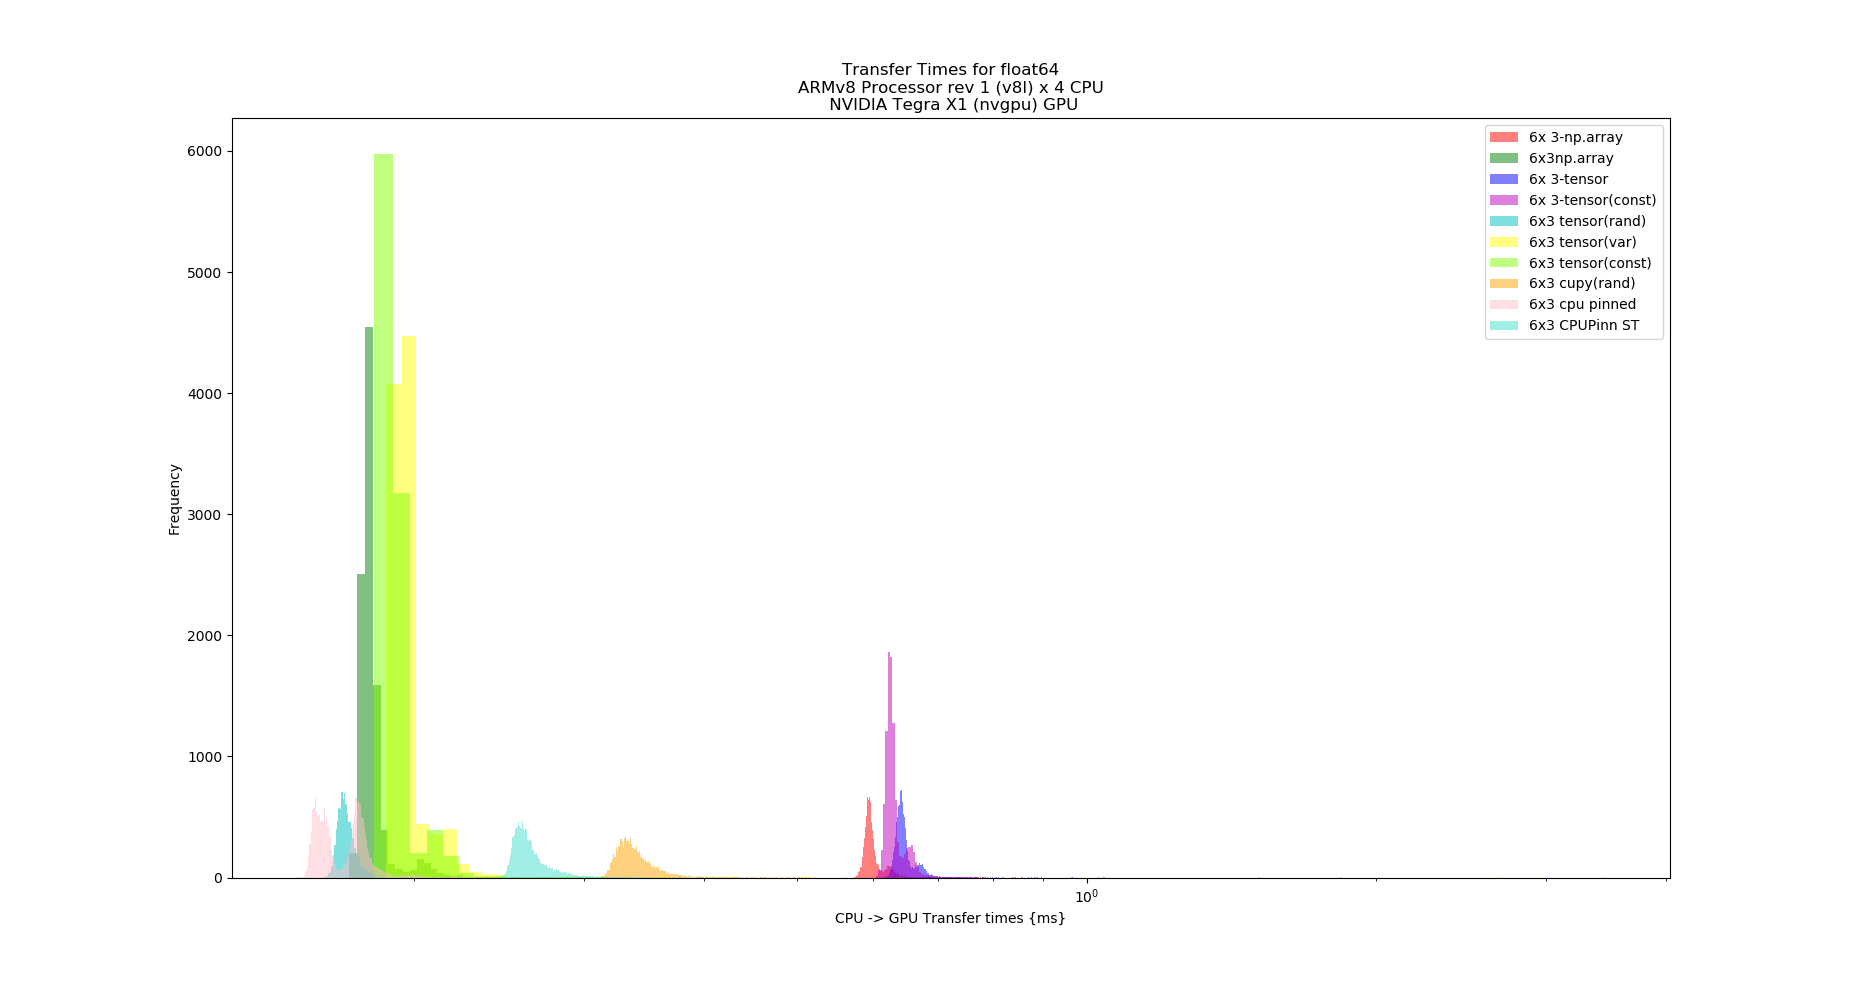
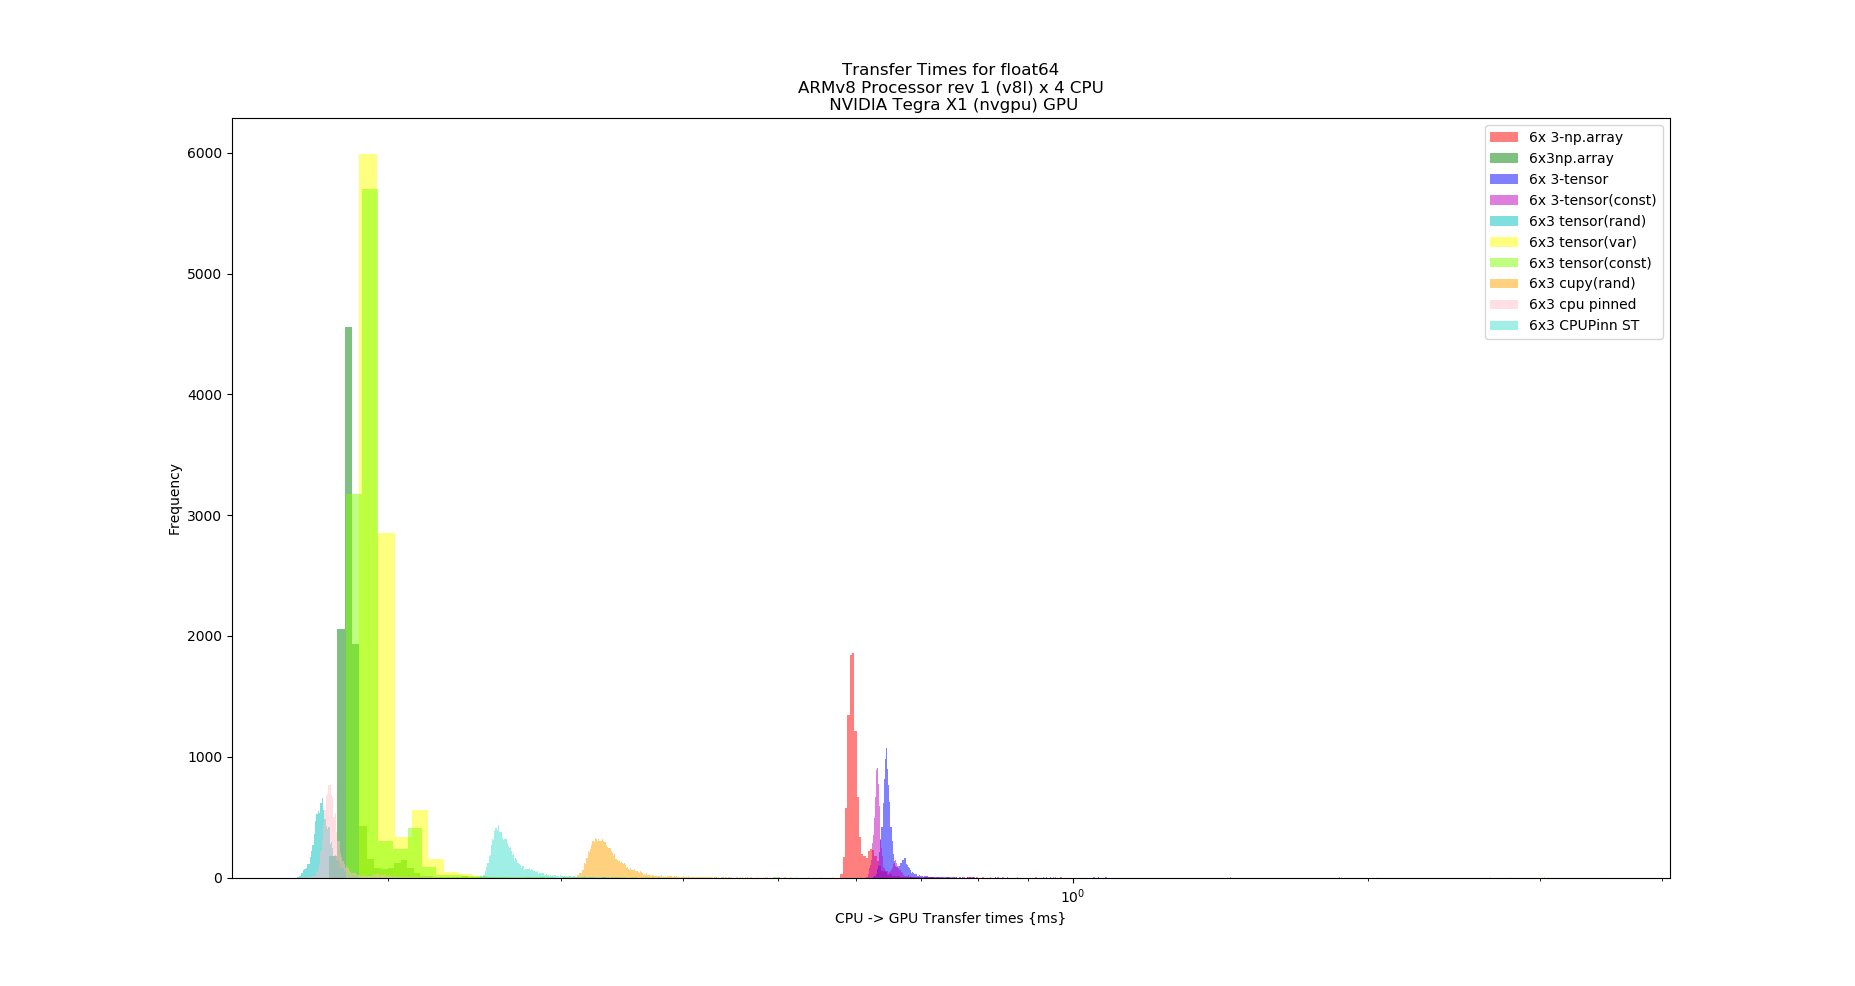
Correct doubled jetson measurements

Changed region(s): [[0.1536, 0.1521, 0.3687, 0.9128], [0.4302, 0.7302, 0.4916, 0.9128], [0.0922, 0.5172, 0.1229, 0.5477]]

diff --git a/README.md b/README.md
@@ -22,23 +22,23 @@ VGPUMat Times: points: 10000, mean: 0.030266073651798068, std: 0.001561949929056
 CGPUMat Times: points: 10000, mean: 0.02866346567682922, std: 0.0035306552234948144, max: 0.24022400379180908, min: 0.017855999991297722
 CUPYMat Times: points: 10000, mean: 0.06792415700107812, std: 0.8546480585564749, max: 85.52751922607422, min: 0.02502400055527687
 CPU Pinned Times: points: 20000, mean: 0.02516704963631928, std: 0.0032678948035097413, max: 0.20479999482631683, min: 0.021503999829292297
-ST CPU Pinned: points: 10000, mean: 0.04576768335322849, std: 0.0048162757139760546, max: 0.29900801181793213, min: 0.005824000108987093
+SpeedTorch CPU Pinned: points: 10000, mean: 0.04576768335322849, std: 0.0048162757139760546, max: 0.29900801181793213, min: 0.005824000108987093
 ```
 
 ## Jetson Nano Timing
 ![alt tag](https://github.com/juanmed/torchspeed/blob/master/media/jetson_nano_cpugpu_transfer.png)
 
 ```python
-Numpy Times: points: 10000, mean: 0.6005140175342559, std: 0.01822966386692426, max: 1.029062032699585, min: 0.570937991142273
-Matrix Times: points: 10000, mean: 0.18131085225343704, std: 0.015875195807204902, max: 1.5151560306549072, min: 0.1709890067577362
-Scalar Times: points: 10000, mean: 0.6479232557177543, std: 0.019200663093293647, max: 1.1922399997711182, min: 0.6150519847869873
-Direct Times: points: 10000, mean: 0.631741645860672, std: 0.02557701268243619, max: 1.9954169988632202, min: 0.6038020253181458
-GPUMat Times: points: 10000, mean: 0.17211523707956075, std: 0.009304733290348713, max: 0.38630199432373047, min: 0.160521000623703
-VGPUMat Times: points: 10000, mean: 0.19833447985202074, std: 0.05192984135644705, max: 2.9525530338287354, min: 0.160521000623703
-CGPUMat Times: points: 10000, mean: 0.1914666683986783, std: 0.03367670842509451, max: 3.4513540267944336, min: 0.1816670000553131
-CUPYMat Times: points: 10000, mean: 0.3991811771035194, std: 5.688358450540875, max: 569.1990966796875, min: 0.31083399057388306
-CPU Pinned Times: points: 20000, mean: 0.1694693487741053, std: 0.011078960266568207, max: 0.3476560115814209, min: 0.1510930061340332
-ST CPU Pinned: points: 10000, mean: 0.26537555684298275, std: 0.015760937672519612, max: 0.5634899735450745, min: 0.24500000476837158
-
+Numpy Times: points: 10000, mean: 0.6018594377875328, std: 0.02223985144543474, max: 1.8741140365600586, min: 0.5788019895553589
+Matrix Times: points: 10000, mean: 0.18444756867140533, std: 0.016061952086207212, max: 1.4518229961395264, min: 0.17411500215530396
+Scalar Times: points: 10000, mean: 0.6519288406074047, std: 0.019685543478514377, max: 1.3126039505004883, min: 0.6256250143051147
+Direct Times: points: 10000, mean: 0.637856672745943, std: 0.01853985506062501, max: 1.0831249952316284, min: 0.6150000095367432
+GPUMat Times: points: 10000, mean: 0.1736436843469739, std: 0.008710885588477057, max: 0.37421900033950806, min: 0.16145800054073334
+VGPUMat Times: points: 10000, mean: 0.19783730645924807, std: 0.0548596756410536, max: 3.488490104675293, min: 0.16145800054073334
+CGPUMat Times: points: 10000, mean: 0.19181567124426366, std: 0.03896283223483032, max: 3.035989999771118, min: 0.18088500201702118
+CUPYMat Times: points: 10000, mean: 0.3939232293576002, std: 5.595389790043855, max: 559.90087890625, min: 0.3080730140209198
+CPU Pinned Times: points: 10000, mean: 0.17686595867425203, std: 0.0083941479989994, max: 0.377811998128891, min: 0.16348999738693237
+SpeedTorch CPU Pinned: points: 10000, mean: 0.2667830572873354, std: 0.015449086114074188, max: 0.5225520133972168, min: 0.2483849972486496
 ```
+
 
